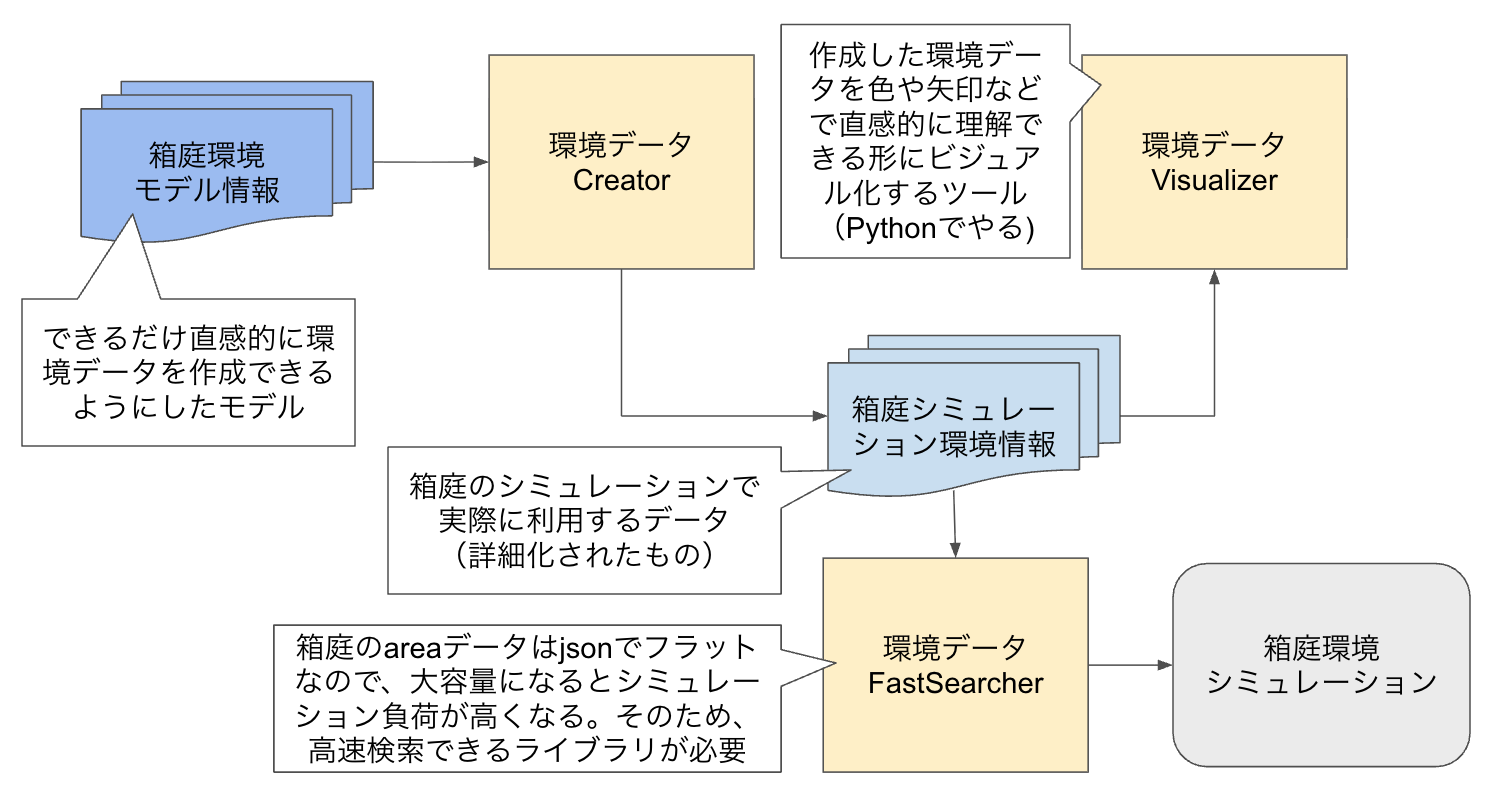
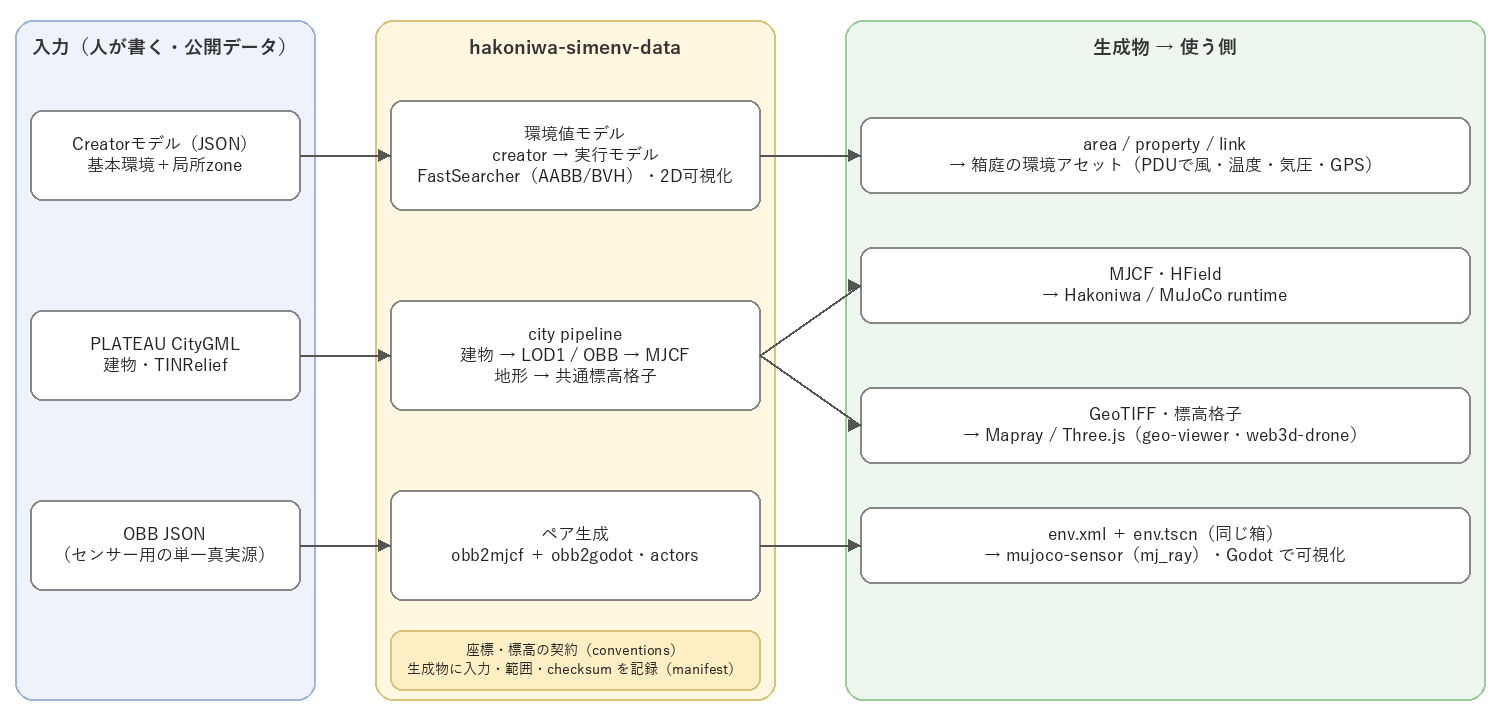
README: describe the three environment features and redraw the overview
- New overview.png (inputs -> simenv-data -> outputs/consumers) covering the
  environment value model, the city/terrain pipeline and the sensor geometry
  pairs; drawn by docs/images/make_overview.py
- The old figure is kept as envsim_flow.png in the environment model section
- Intro table of the three features, consumers and directory list updated

diff --git a/docs/images/make_overview.py b/docs/images/make_overview.py
@@ -1,0 +1,85 @@
+"""README の概要図（docs/images/overview.png）を描く。
+
+    python docs/images/make_overview.py
+
+列は「入力 → このリポジトリ → 生成物と使う側」、行は 3 つの機能（環境値・都市と地形・センサー用ジオメトリ）。
+箱の文言を変えたらこのファイルを直して描き直す。フォントは Windows の Yu Gothic UI（無ければ Meiryo）。
+"""
+from __future__ import annotations
+
+from pathlib import Path
+
+from PIL import Image, ImageDraw, ImageFont
+
+W, H = 1500, 720
+FONT_CANDIDATES = ["C:/Windows/Fonts/YuGothM.ttc", "C:/Windows/Fonts/meiryo.ttc"]
+BOLD_CANDIDATES = ["C:/Windows/Fonts/YuGothB.ttc", "C:/Windows/Fonts/meiryob.ttc"]
+
+
+def font(cands, size):
+    for c in cands:
+        if Path(c).exists():
+            return ImageFont.truetype(c, size)
+    return ImageFont.load_default()
+
+
+F = font(FONT_CANDIDATES, 17)
+FS = font(FONT_CANDIDATES, 14)
+FB = font(BOLD_CANDIDATES, 19)
+
+COL = {"in": (30, 300), "tool": (390, 760), "out": (860, 1470)}
+PANEL = {"in": ("入力（人が書く・公開データ）", "#eef3fb", "#9fb6d9"),
+         "tool": ("hakoniwa-simenv-data", "#fff7df", "#d9c27a"),
+         "out": ("生成物 → 使う側", "#eef7ee", "#9ccc9c")}
+ROWS = [  # (入力, ツール, [生成物...])
+    ("Creatorモデル（JSON）\n基本環境＋局所zone",
+     "環境値モデル\ncreator → 実行モデル\nFastSearcher（AABB/BVH）・2D可視化",
+     ["area / property / link\n→ 箱庭の環境アセット（PDUで風・温度・気圧・GPS）"]),
+    ("PLATEAU CityGML\n建物・TINRelief",
+     "city pipeline\n建物 → LOD1 / OBB → MJCF\n地形 → 共通標高格子",
+     ["MJCF・HField\n→ Hakoniwa / MuJoCo runtime",
+      "GeoTIFF・標高格子\n→ Mapray / Three.js（geo-viewer・web3d-drone）"]),
+    ("OBB JSON\n（センサー用の単一真実源）",
+     "ペア生成\nobb2mjcf ＋ obb2godot・actors",
+     ["env.xml ＋ env.tscn（同じ箱）\n→ mujoco-sensor（mj_ray）・Godot で可視化"]),
+]
+ROW_Y = [(80, 230), (250, 460), (480, 610)]
+
+
+def box(d, x0, y0, x1, y1, text, fill="#ffffff", outline="#888888", f=F):
+    d.rounded_rectangle((x0, y0, x1, y1), radius=12, fill=fill, outline=outline, width=2)
+    d.multiline_text(((x0 + x1) / 2, (y0 + y1) / 2), text, font=f, fill="#222222", anchor="mm", align="center", spacing=6)
+
+
+def arrow(d, x0, y0, x1, y1):
+    d.line((x0, y0, x1, y1), fill="#555555", width=2)
+    d.polygon([(x1, y1), (x1 - 12, y1 - 6), (x1 - 12, y1 + 6)], fill="#555555")
+
+
+def main() -> None:
+    img = Image.new("RGB", (W, H), "white")
+    d = ImageDraw.Draw(img)
+    for k, (x0, x1) in COL.items():
+        title, fill, line = PANEL[k]
+        d.rounded_rectangle((x0 - 15, 20, x1 + 15, H - 20), radius=18, fill=fill, outline=line, width=2)
+        d.text(((x0 + x1) / 2, 48), title, font=FB, fill="#333333", anchor="mm")
+    for (src, tool, outs), (y0, y1) in zip(ROWS, ROW_Y):
+        ym = (y0 + y1) / 2
+        box(d, COL["in"][0], ym - 45, COL["in"][1], ym + 45, src)
+        box(d, COL["tool"][0], ym - 55, COL["tool"][1], ym + 55, tool)
+        arrow(d, COL["in"][1], ym, COL["tool"][0], ym)
+        n = len(outs)
+        for i, o in enumerate(outs):
+            oy = ym if n == 1 else y0 + 35 + i * ((y1 - y0 - 70) / (n - 1))
+            box(d, COL["out"][0], oy - 38, COL["out"][1], oy + 38, o)
+            arrow(d, COL["tool"][1], ym, COL["out"][0], oy)
+    # 共通の約束（中央の列の下）
+    box(d, COL["tool"][0], 630, COL["tool"][1], 690,
+        "座標・標高の契約（conventions）\n生成物に入力・範囲・checksum を記録（manifest）", fill="#fdeec4", outline="#d9c27a", f=FS)
+    out = Path(__file__).with_name("overview.png")
+    img.save(out)
+    print(out)
+
+
+if __name__ == "__main__":
+    main()
